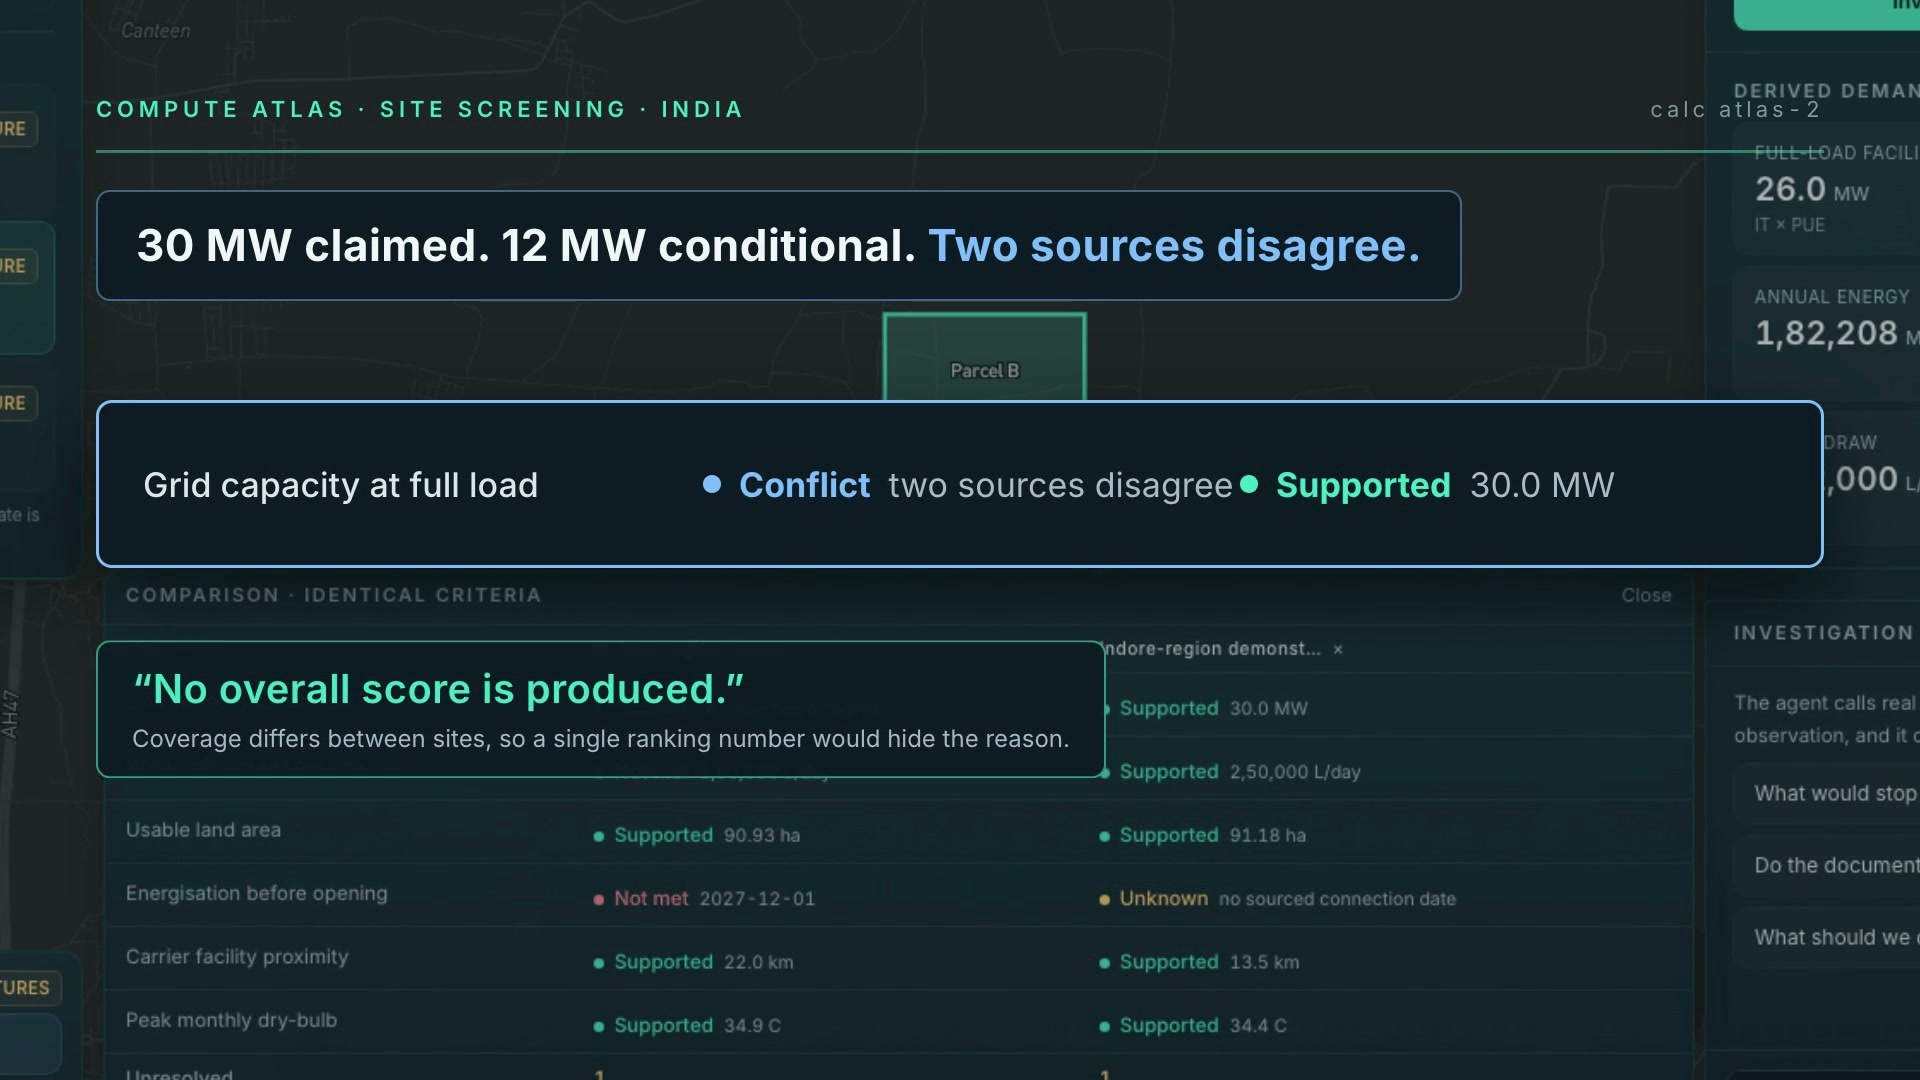
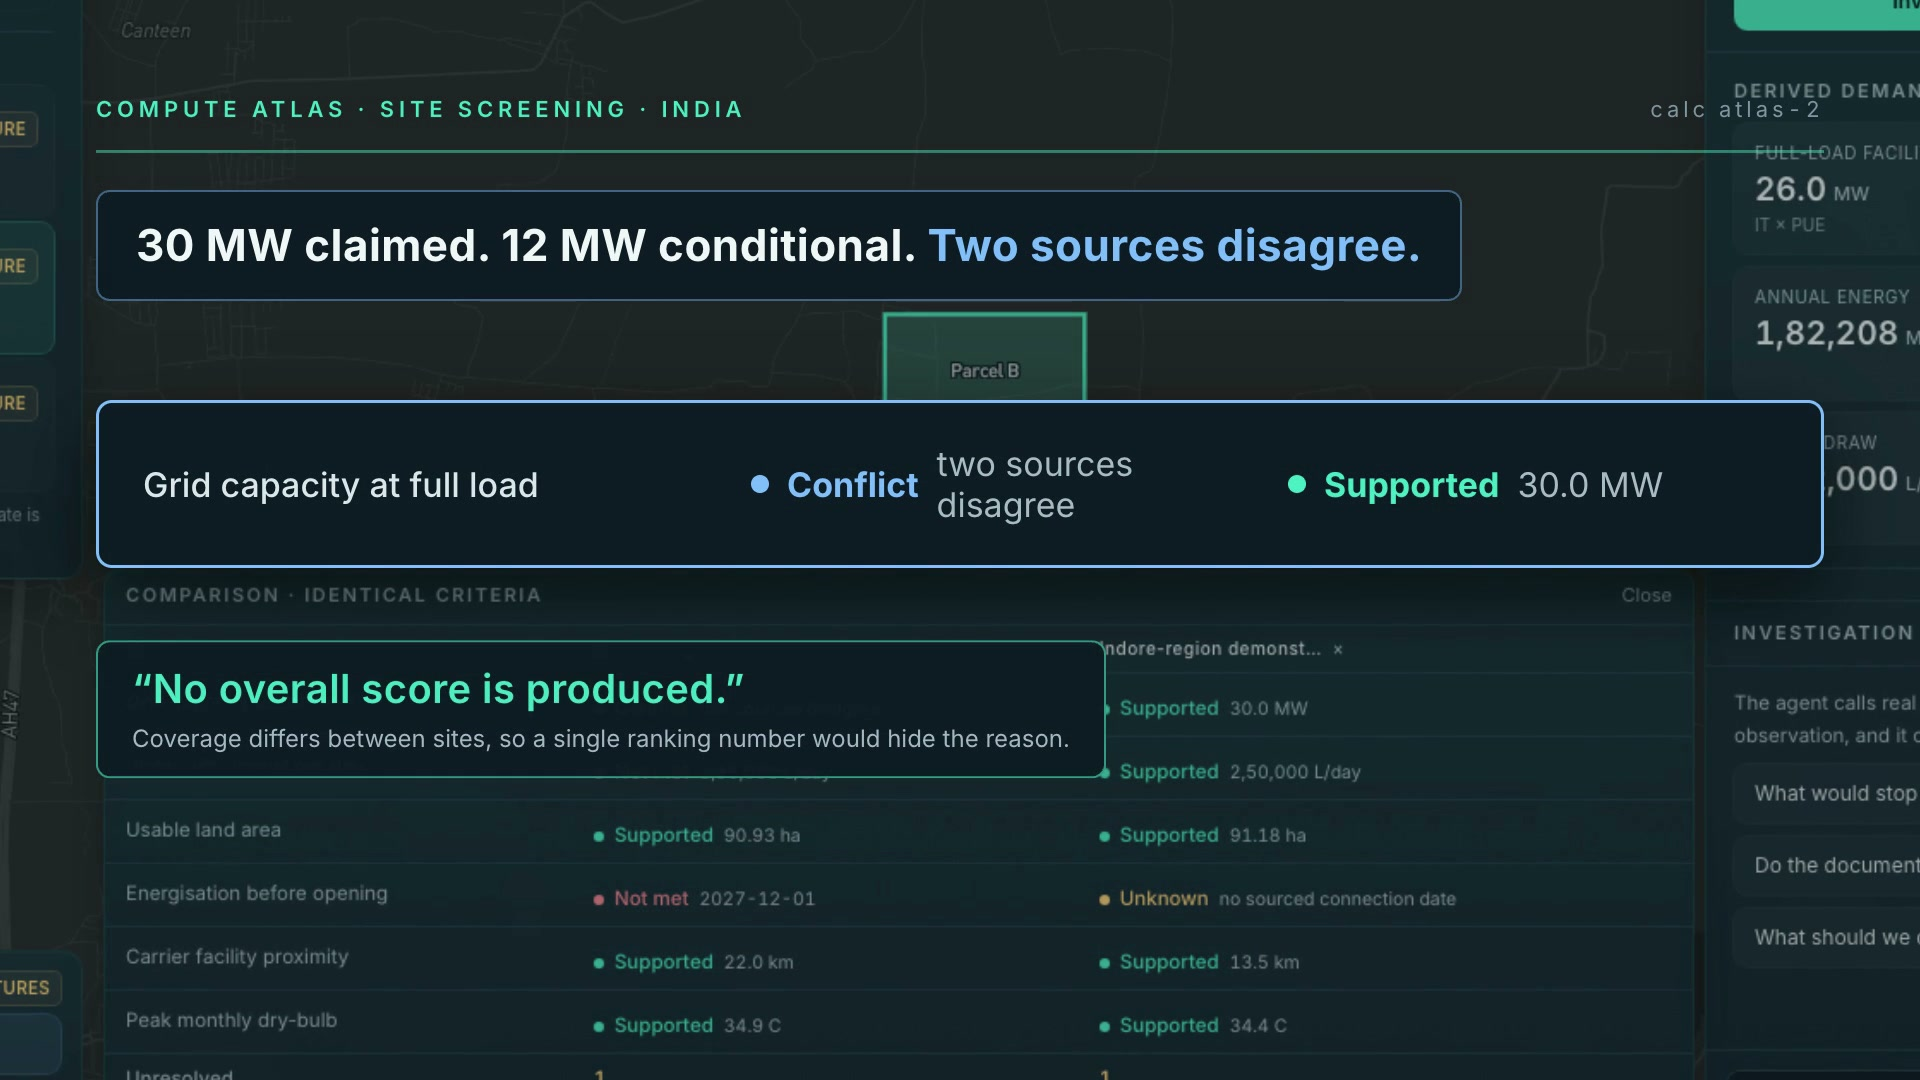
Disable PDF extraction rather than ship it broken in production
pdf-parse extracts correctly under next dev but fails on the same bytes in a
production build, and therefore on Vercel: a hand-built 722-byte PDF that parses
locally returns bad XRef entry, and a real document returns a different parse
error. The upload arrives intact (byte count and %PDF- header verified), so the
fault is in the bundled pdf.js under the production build, not the transport.

Uploads now accept .txt/.md/.csv only, and a PDF is refused with a plain reason
instead of a misleading claim that it needs OCR. Pasting text is unaffected and
remains the documented path. DEMO.md no longer tells the presenter to upload a
PDF on stage.

Changed region(s): [[0.3438, 0.4278, 0.875, 0.4889]]

diff --git a/app/api/evidence/route.ts b/app/api/evidence/route.ts
@@ -28,16 +28,6 @@ function makeDoc(siteId: string, title: string, text: string, origin: EvidenceDo
   };
 }
 
-async function pdfToText(buf: Buffer): Promise<string> {
-  // The package entry point runs a debug block that reads a bundled test PDF when
-  // `module.parent` is undefined, which throws under Next's bundler. The library
-  // implementation itself is imported directly to avoid that.
-  const mod = await import("pdf-parse/lib/pdf-parse.js");
-  const parse = (mod as unknown as { default: (b: Buffer) => Promise<{ text: string }> }).default;
-  const out = await parse(buf);
-  return out.text;
-}
-
 export async function POST(req: Request) {
   const contentType = req.headers.get("content-type") ?? "";
 
@@ -56,23 +46,31 @@ export async function POST(req: Request) {
       }
 
       const name = file.name || "document";
-      const buf = Buffer.from(await file.arrayBuffer());
+      // pdf.js reads the underlying ArrayBuffer and can ignore a view's offset.
+      // On a pooled allocation that yields unrelated bytes and a spurious parse
+      // error, so the payload is copied into an exactly-sized buffer first.
+      const incoming = new Uint8Array(await file.arrayBuffer());
+      const exact = new Uint8Array(incoming.byteLength);
+      exact.set(incoming);
+      const buf = Buffer.from(exact.buffer, 0, exact.byteLength);
       const isPdf = name.toLowerCase().endsWith(".pdf") || file.type === "application/pdf";
       const isText = /\.(txt|md|csv)$/i.test(name) || file.type.startsWith("text/");
       if (!isPdf && !isText) {
-        return NextResponse.json({ error: "Only .pdf, .txt, .md and .csv are accepted." }, { status: 415 });
+        return NextResponse.json({ error: "Only .txt, .md and .csv are accepted." }, { status: 415 });
       }
 
       let text: string;
       if (isPdf) {
-        try {
-          text = await pdfToText(buf);
-        } catch {
-          return NextResponse.json(
-            { error: "That PDF could not be read as text. Scanned pages need OCR, which this build does not do." },
-            { status: 422 }
-          );
-        }
+        // PDF extraction works in dev but not in a production build: the bundled
+        // pdf.js misreads the same bytes there. Disabled rather than shipped as a
+        // feature that fails only once deployed.
+        return NextResponse.json(
+          {
+            error:
+              "PDF extraction is not enabled in this build. Paste the relevant text, or upload a .txt or .md file.",
+          },
+          { status: 415 }
+        );
       } else {
         text = buf.toString("utf8");
       }

diff --git a/components/panels/EvidencePanel.tsx b/components/panels/EvidencePanel.tsx
@@ -113,12 +113,12 @@ export default function EvidencePanel({
             disabled={busy}
             className="flex-1 rounded-control bg-white/[.04] px-3 py-1.5 text-[11px] font-semibold text-ink ring-1 ring-white/[.08] transition hover:bg-white/[.08] disabled:opacity-40"
           >
-            {busy ? "Reading…" : "Upload PDF or text"}
+            {busy ? "Reading…" : "Upload a text file"}
           </button>
           <input
             ref={fileRef}
             type="file"
-            accept=".pdf,.txt,.md,.csv,application/pdf,text/*"
+            accept=".txt,.md,.csv,text/*"
             className="sr-only"
             onChange={(e) => { const f = e.target.files?.[0]; if (f) onUpload(f); e.target.value = ""; }}
           />

diff --git a/DEMO.md b/DEMO.md
@@ -31,7 +31,9 @@ figure recomputes, the change card explains it, and a version is logged.
 
 ## Their document
 
-Evidence → **Upload PDF or text**, or paste. Figures like `18 MW` or
+Evidence → **paste text**, or upload a `.txt`/`.md`. **PDF upload is disabled** —
+extraction works under `next dev` but misreads the same bytes in a production
+build, so do not promise it on stage. Figures like `18 MW` or
 `connection by March 2028` are extracted with their paragraph. A second figure
 for the same thing produces a conflict automatically. A figure the document
 hedges ("indicative", "subject to") is marked *qualified*; that is a fact about
